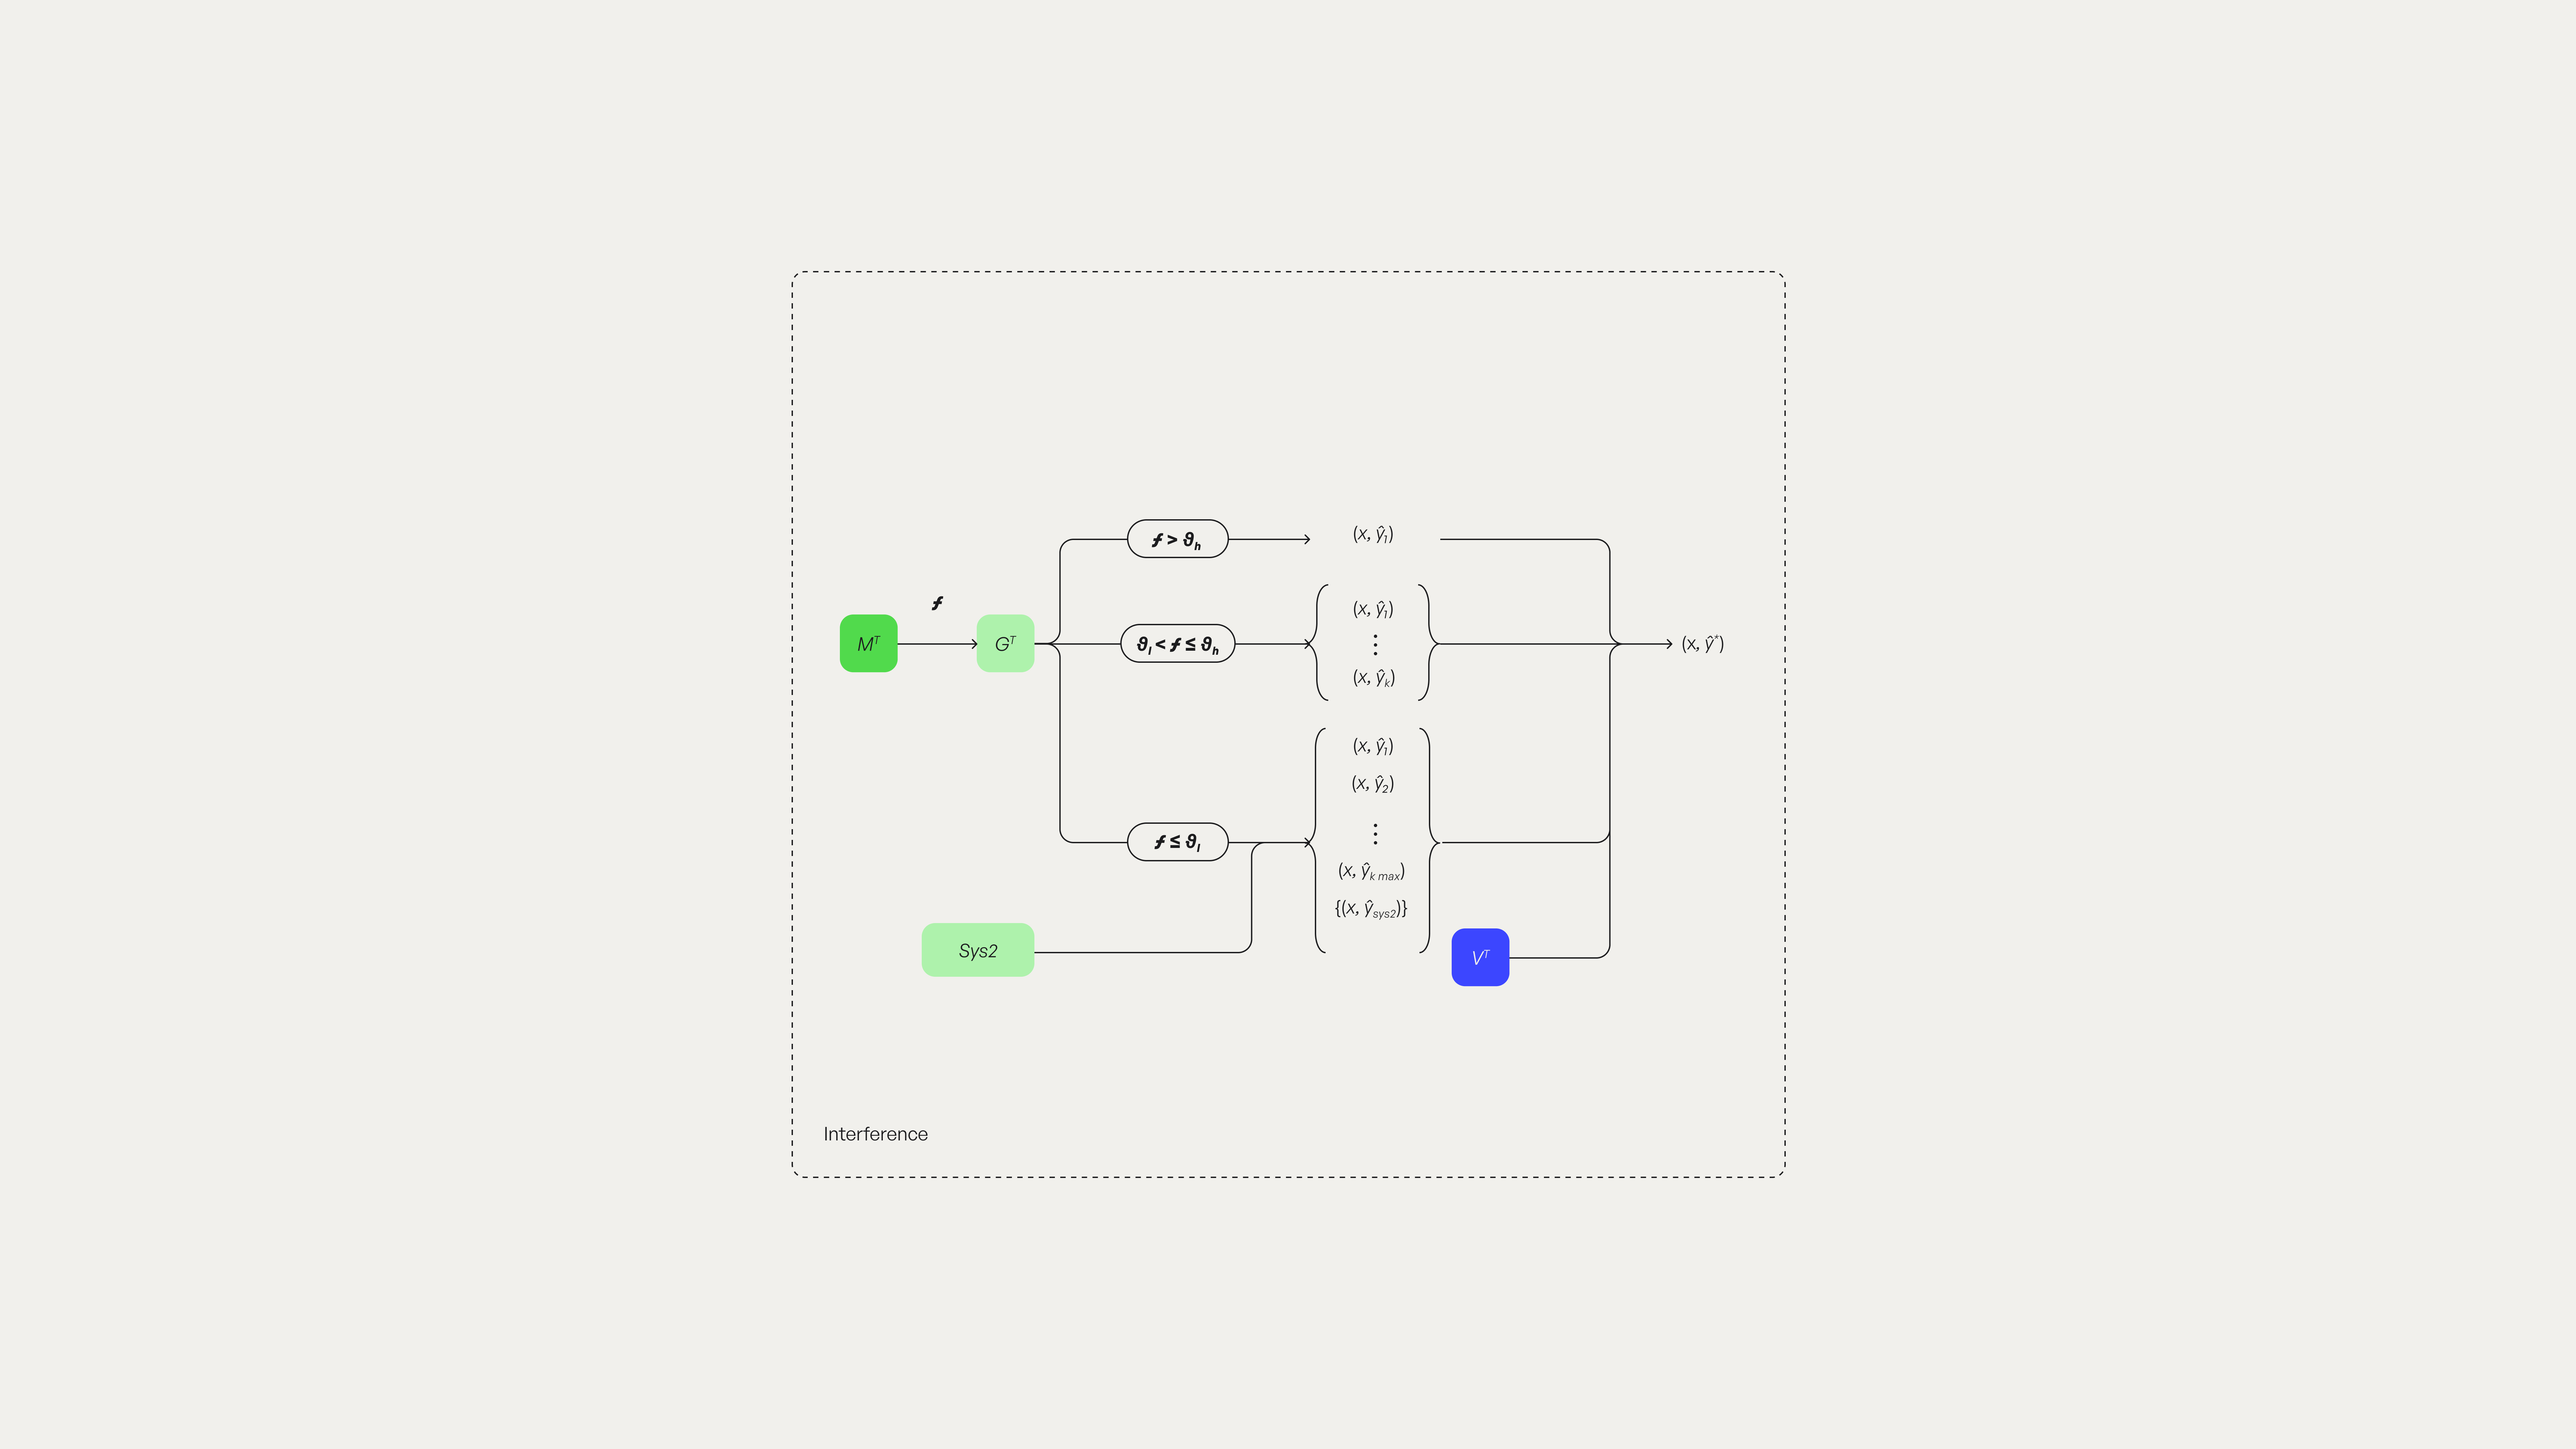
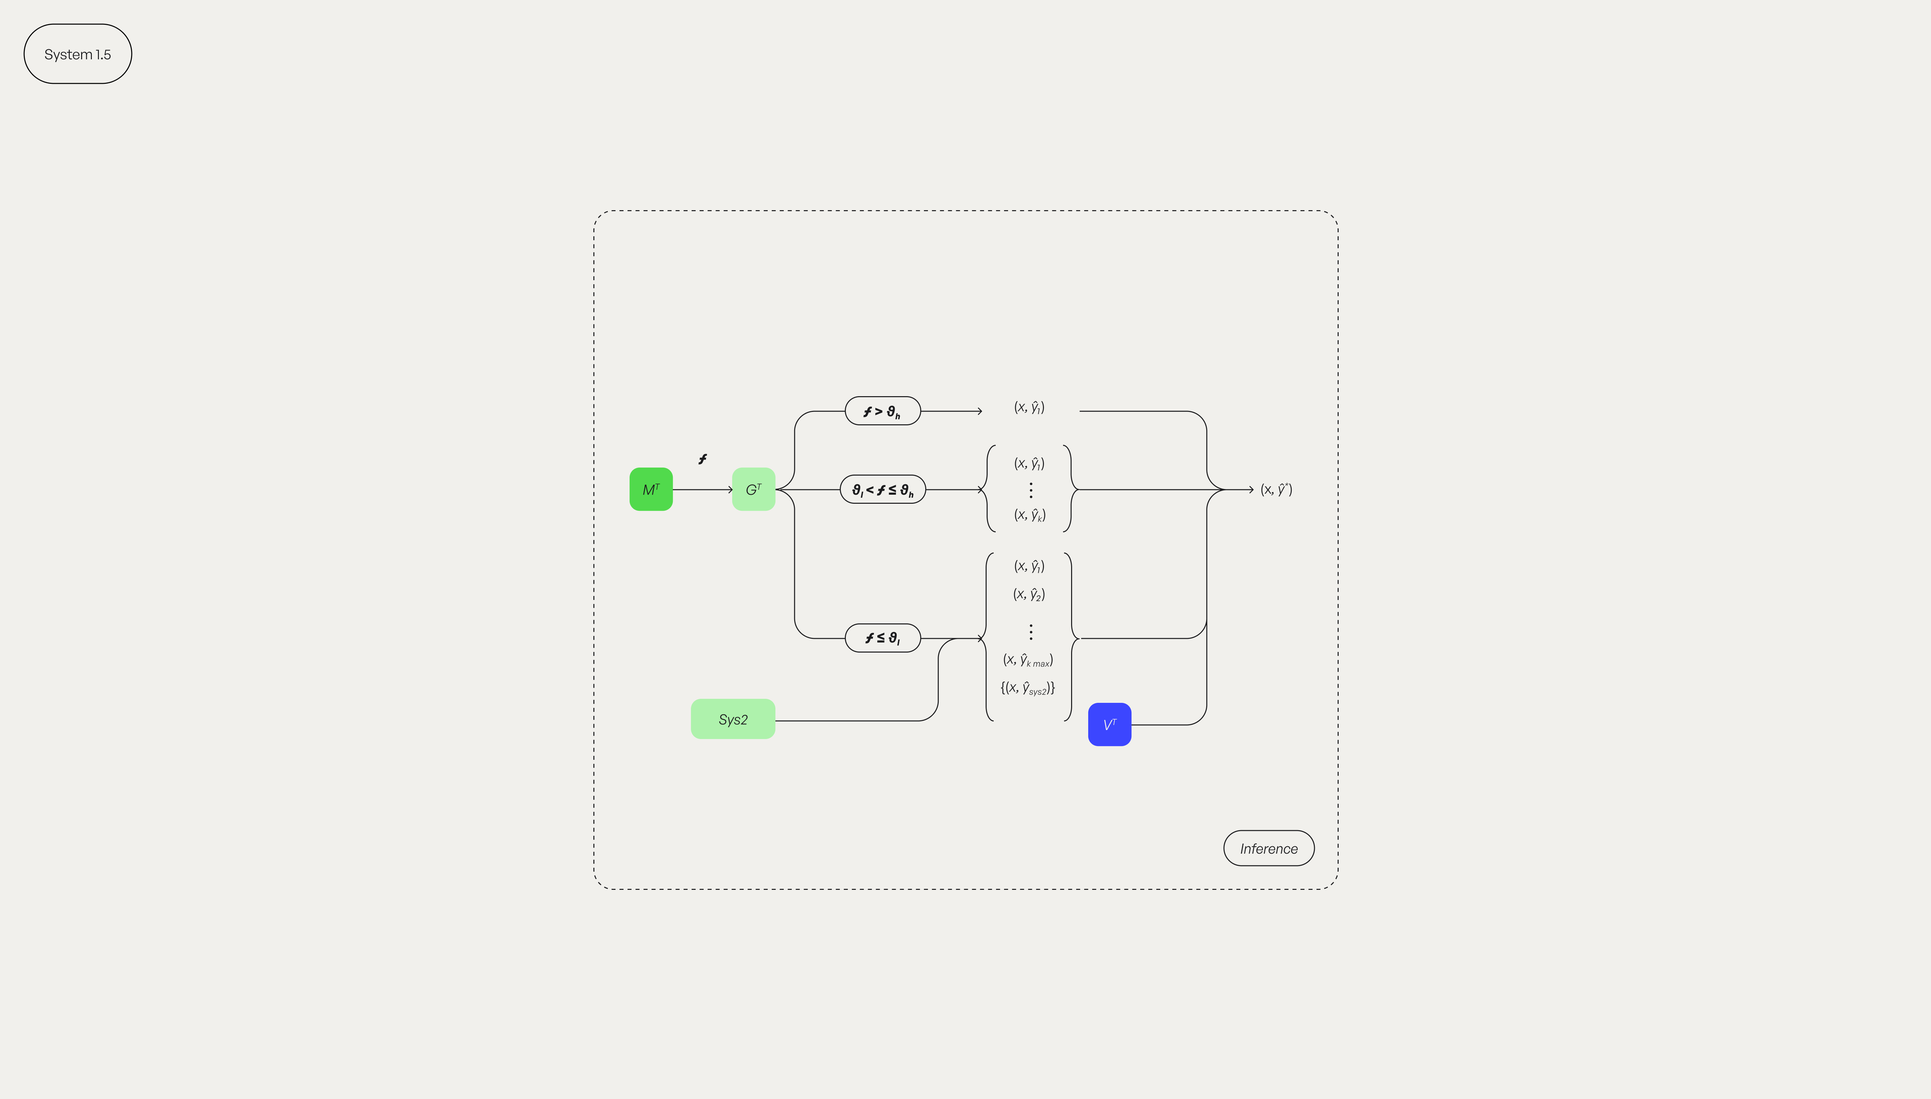
last changes

diff --git a/src/pages/research/BeforeYouThinkMonitor.js b/src/pages/research/BeforeYouThinkMonitor.js
@@ -89,8 +89,6 @@ const BeforeYouThinkMonitor = () => {
             and see if we could actually make it work. No fancy architectures.
             No million-dollar compute budgets. Just us, a single H100 GPU, and
             the kind of nervous excitement that defines experimental research.
-            <br></br>
-            <br></br>
           </Body>
         </>
       ),
@@ -351,6 +349,9 @@ const BeforeYouThinkMonitor = () => {
         <TextBlocks
           textBlocks={textBlocks.filter((textBlock) => textBlock.id === 3)}
         />
+        <TextBlocks
+          textBlocks={textBlocks.filter((textBlock) => textBlock.id === 9)}
+        />
         <ImageContainer>
           <MyImage
             // style={{ alignSelf: "flex-end" }}
@@ -358,9 +359,6 @@ const BeforeYouThinkMonitor = () => {
             src={Psychology}
           ></MyImage>
         </ImageContainer>
-        <TextBlocks
-          textBlocks={textBlocks.filter((textBlock) => textBlock.id === 9)}
-        />
         <TextBlocks
           textBlocks={textBlocks.filter((textBlock) => textBlock.id === 4)}
         />

diff --git a/src/pages/Home.js b/src/pages/Home.js
@@ -199,7 +199,7 @@ const Home = () => {
         />
         <meta
           name="description"
-          content="We create open-source AI models for social scientists seeking to integrate the power of AI with the interpretability of traditional methods."
+          content="We create experimental collisions between machine intelligence and human sciences."
         />
 
         {/* <!-- Open Graph / Facebook --> */}
@@ -211,7 +211,7 @@ const Home = () => {
         />
         <meta
           property="og:description"
-          content="We create open-source AI models for social scientists seeking to integrate the power of AI with the interpretability of traditional methods."
+          content="We create experimental collisions between machine intelligence and human sciences."
         />
         <meta property="og:image" content={MonitorGenerate} />
       </Helmet>

diff --git a/src/pages/About.js b/src/pages/About.js
@@ -103,9 +103,9 @@ const About = () => {
       video: NeurIPS2024,
       bgColour: "#51DA4C",
       textColour: "#FFFFFF",
-      heading: "Neural Information Processing Systems 2024 Conference",
-      paragraph:
-        "The Thirty-Eighth Annual Conference on Neural Information Processing Systems (NeurIPS 2024) Lightning Talk: System-2 Reasoning at Scale Workshop”",
+      heading:
+        "The Thirty-Eighth Annual Conference on Neural Information Processing Systems (NeurIPS 2024)",
+      paragraph: "Lightning Talk: System-2 Reasoning at Scale Workshop",
       alt: "A 17th century painting of Chickens and Ducks by Melchior d' Hondecoeter",
       id: 1,
       link: "https://www.linkedin.com/posts/nick-sh-oh_neurips2024-system1-system2-activity-7275036516656025600-vb8a?utm_source=share&utm_medium=member_desktop&rcm=ACoAADAZmYEBOfRdQjr4gXNOLk3ELwWkedXIQmU",

diff --git a/src/pages/research/System1.5.js b/src/pages/research/System1.5.js
@@ -323,9 +323,9 @@ const System15 = () => {
       video: NeurIPS2024,
       bgColour: "#51DA4C",
       textColour: "#FFFFFF",
-      heading: "Neural Information Processing Systems 2024 Conference",
-      paragraph:
-        "The Thirty-Eighth Annual Conference on Neural Information Processing Systems (NeurIPS 2024) Lightning Talk: System-2 Reasoning at Scale Workshop",
+      heading:
+        "The Thirty-Eighth Annual Conference on Neural Information Processing Systems (NeurIPS 2024)",
+      paragraph: "Lightning Talk: System-2 Reasoning at Scale Workshop",
       alt: "A 17th century painting of Chickens and Ducks by Melchior d' Hondecoeter",
       id: 1,
       link: "https://www.linkedin.com/posts/nick-sh-oh_neurips2024-system1-system2-activity-7275036516656025600-vb8a?utm_source=share&utm_medium=member_desktop&rcm=ACoAADAZmYEBOfRdQjr4gXNOLk3ELwWkedXIQmU",

diff --git a/src/pages/data/PETLP.js b/src/pages/data/PETLP.js
@@ -4,6 +4,8 @@ import PublicationHero from "../../components/PublicationHero";
 import { Helmet } from "react-helmet";
 import ExtractionChannelDiagram from "../../assets/diagrams/PELTP_Extraction_Channels.png";
 import PELTPCover from "../../assets/covers/peltp_cover.png";
+import PELTPdiagram from "../../assets/images/PELTP_Data.png";
+
 import {
   Body,
   CustomLink,
@@ -467,6 +469,9 @@ const PETLP = () => {
         <TextBlocks
           textBlocks={textBlocks.filter((textBlock) => textBlock.id === 3)}
         />
+        <ImageContainer>
+          <MyImage alt={`Diagram for PELTP`} src={PELTPdiagram}></MyImage>
+        </ImageContainer>
         <TextBlocks
           textBlocks={textBlocks.filter((textBlock) => textBlock.id === 4)}
         />

diff --git a/src/components/Footer.jsx b/src/components/Footer.jsx
@@ -97,17 +97,26 @@ export default Footer;
 export const PatternContainer = styled.div`
   bottom: 0vh;
   box-sizing: border-box;
-  padding: 24px;
+  padding: 0px 0px 24px 0px;
+
+  @media (max-width: 1681px) {
+    margin: 24px;
+  }
 
   @media (max-width: 768px) {
+    margin: 0px;
     padding: 0px 0px 20px 0px;
   }
 `;
 
 export const Grid = styled(GridContainer)`
-  margin: 24px;
+  margin: 24px 0px 0px 0px;
   grid-template-columns: 6fr 1fr 1fr 1fr;
   padding-right: 120px;
+
+  @media (max-width: 1681px) {
+    margin: 24px;
+  }
 
   @media (max-width: 1024px) {
     margin: 20px;

diff --git a/src/pages/data/RedditHarbor.js b/src/pages/data/RedditHarbor.js
@@ -201,7 +201,7 @@ const RedditHarbor = () => {
             <CustomCode>mask_pii=True</CustomCode> — and suddenly{" "}
             <CustomCode>John from Seattle</CustomCode> becomes{" "}
             <CustomCode>
-              {"<PERSON>"}from {"<LOCATION>"}
+              {"<PERSON>"} from {"<LOCATION>"}
             </CustomCode>
             . Covers 12+ entity types. Your IRB will sleep better. Though
             sometimes it's overeager: "The Fed raised rates by 0.25%" becomes
